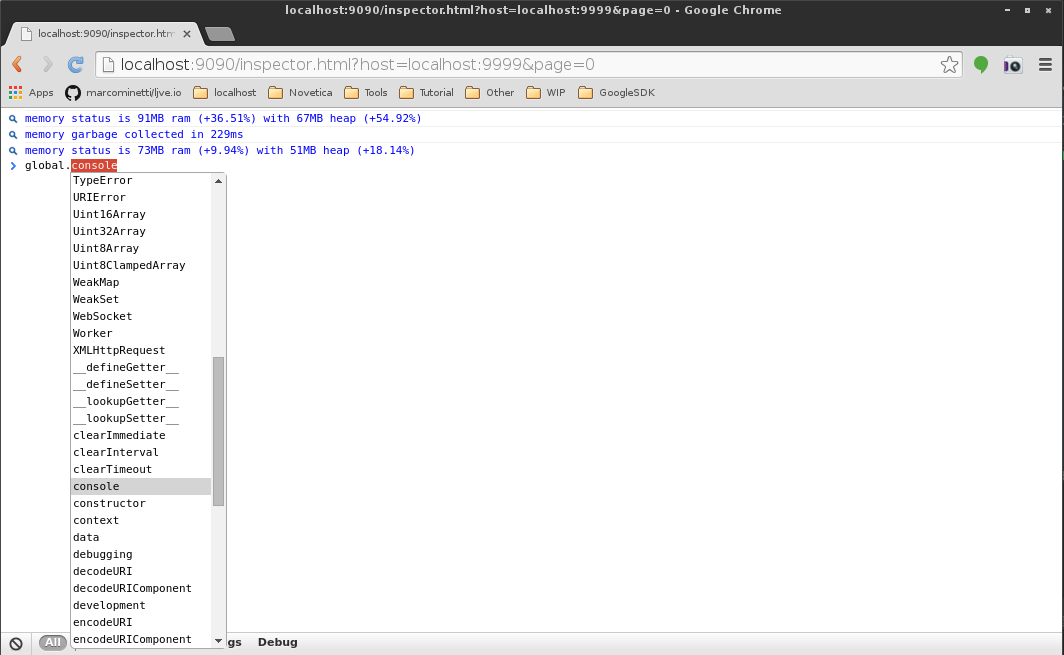
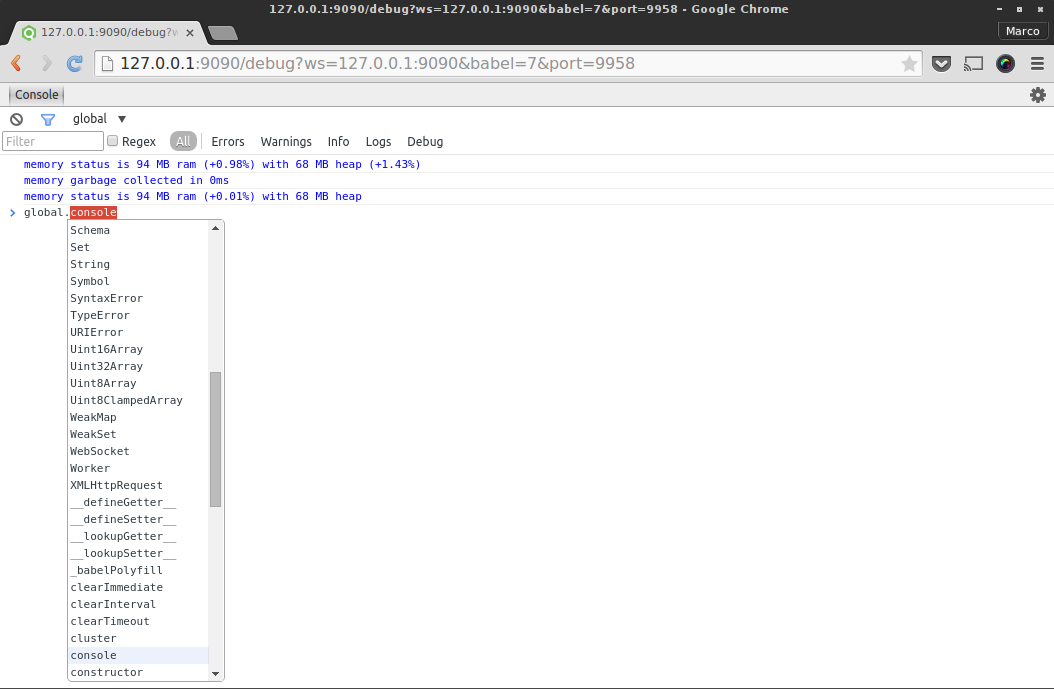
Updated package.json file. Updated README.md file. Updated screenshot.

Changed region(s): [[0.0, 0.0, 1.0, 1.0], [0.2429, 0.0, 0.759, 0.0305]]

diff --git a/README.md b/README.md
@@ -1,4 +1,4 @@
-# Node Web Console (based on Webkit Agent)
+# Node Web Console (based on Webkit Agent and Blink Tools)
 
 ## Screenshot
 
@@ -19,12 +19,6 @@ _The agent must be loaded inside the node process you want to control. If you pa
 
 ## Experimental
 The console from 0.3.5 supports ECMAScript 6 and 7 through [babel.js](https://github.com/babel/babel) project.
-
-
-
-## ToDo
-
-The console.dir doesn't work properly and logs string representation instead of navigable object.
 
 
 
